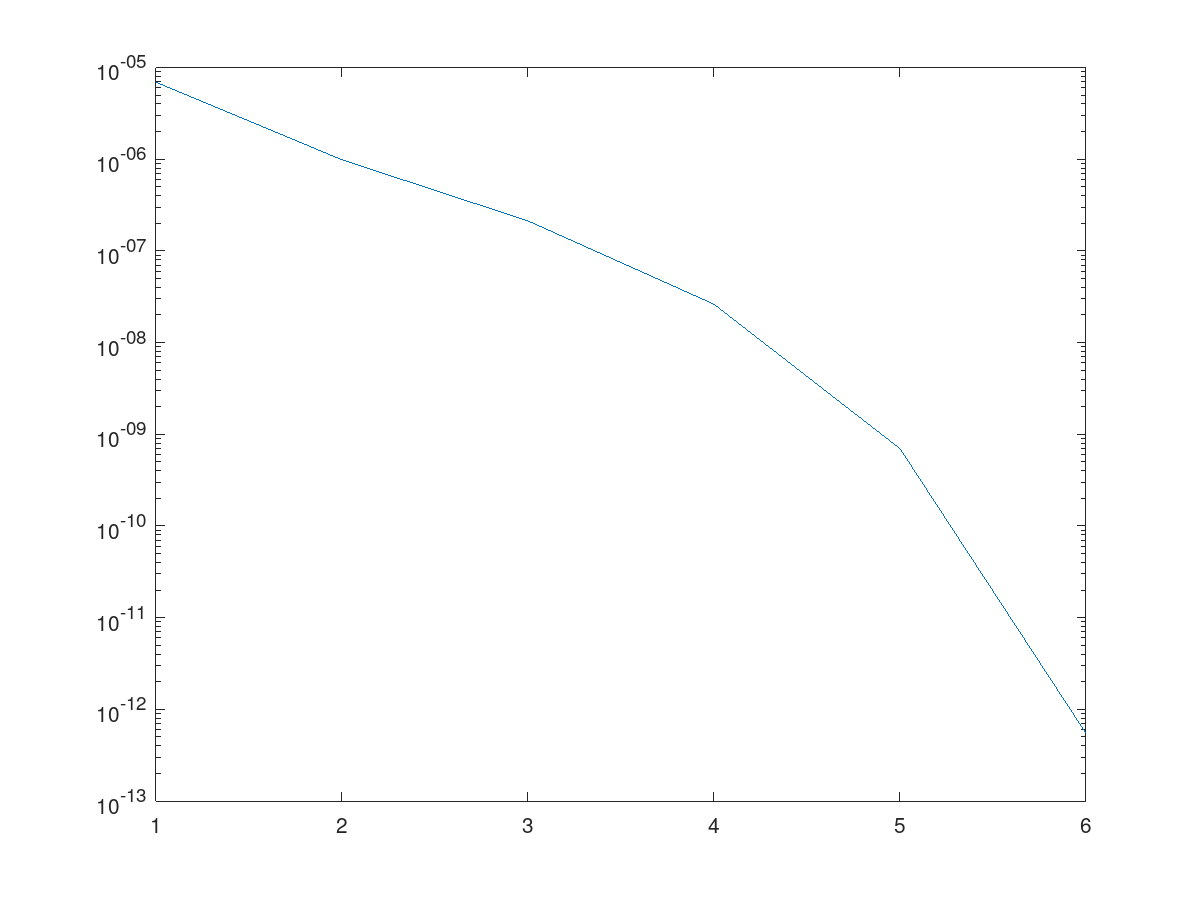
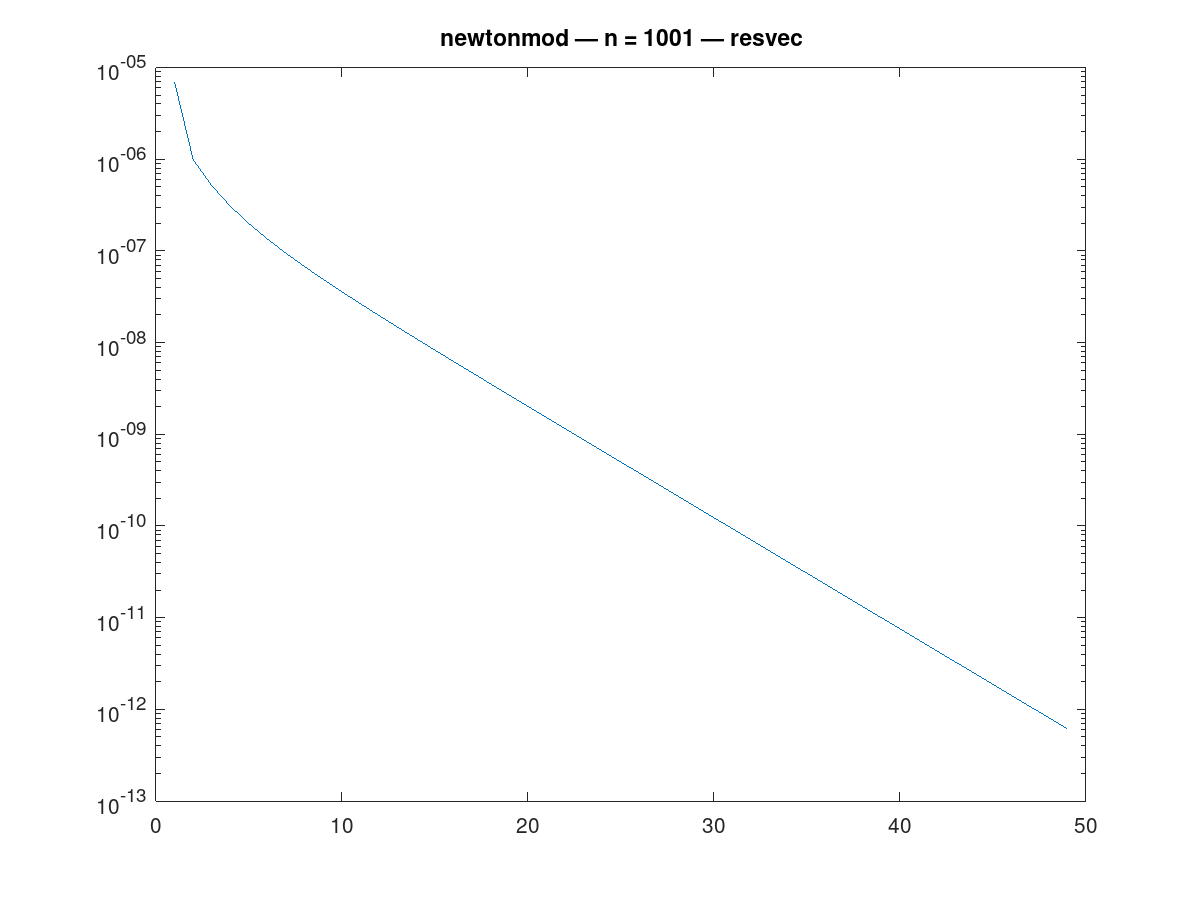
títulos

diff --git a/exe7/main.m b/exe7/main.m
@@ -18,6 +18,7 @@ tams = [11 301 1001];
         tic;
         [x, u, iter, Fu, resvec] = mas(n, lambda, tol, itmax);
         t = toc
+        title([met " : " "n = " num2str(n)])
         grava_grafico([ "plot/" met "_" num2str(n) ], "png");
         semilogy(resvec);
         axis([0 10]);
@@ -28,6 +29,7 @@ tams = [11 301 1001];
         tic
         [x, u, iter, Fu, resvec] = newton(n, lambda, tol, itmax);
         t = toc
+        title([met " : " "n = " num2str(n)])
         grava_grafico([ "plot/" met "_" num2str(n) ], "png");
         semilogy(resvec);
         grava_grafico([ "plot/resvec/" met "_" num2str(n) ], "png");
@@ -37,19 +39,21 @@ tams = [11 301 1001];
         tic
         [x, u, iter, Fu, resvec] = newton_mod(n, lambda, tol, itmax);
         t = toc
+        title([met " : " "n = " num2str(n)])
         grava_grafico([ "plot/" met "_" num2str(n) ], "png");
         semilogy(resvec);
         grava_grafico([ "plot/resvec/" met "_" num2str(n) ], "png");
         printf("\n");
 
-        met = "newtonmod"
-        tic
-        [x, u, iter, Fu, resvec] = newton_aprox(n, lambda, tol, itmax);
-        t = toc
-        grava_grafico([ "plot/" met "_" num2str(n) ], "png");
-        semilogy(resvec);
-        grava_grafico([ "plot/resvec/" met "_" num2str(n) ], "png");
-        printf("\n");
+        % met = "newtonaprox"
+        % tic
+        % [x, u, iter, Fu, resvec] = newton_aprox(n, lambda, tol, itmax);
+        % t = toc
+        % title([met " : " "n = " num2str(n)])
+        % grava_grafico([ "plot/" met "_" num2str(n) ], "png");
+        % semilogy(resvec);
+        % grava_grafico([ "plot/resvec/" met "_" num2str(n) ], "png");
+        % printf("\n");
 
         printf("\n\n");
 
